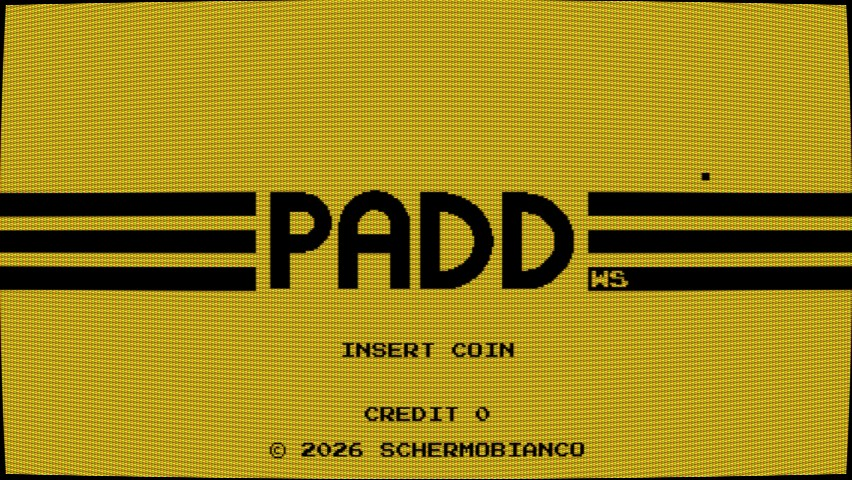
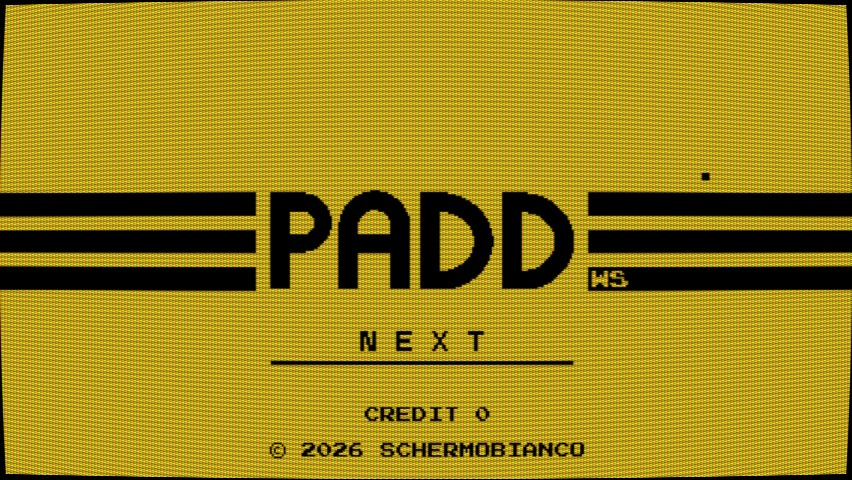
README e guide: titolo dell'attract con NEXT

Changed region(s): [[0.3052, 0.6875, 0.6714, 0.7812]]

diff --git a/docs/it/come-si-gioca.md b/docs/it/come-si-gioca.md
@@ -367,8 +367,8 @@ menu. Solo PAL; finora provata in VICE. Dettagli in [c64/README.md](../../c64/RE
 
 | | |
 |---|---|
-| ![Titolo dell'attract con il filtro CRT](../screenshots/attract-crt.jpg) | ![Conto alla rovescia prima del servizio](../screenshots/countdown.png) |
-| Titolo dell'attract, con il filtro CRT | Conto alla rovescia prima del servizio |
+| ![Titolo dell'attract con NEXT, con il filtro CRT](../screenshots/attract-crt.jpg) | ![Conto alla rovescia prima del servizio](../screenshots/countdown.png) |
+| Titolo dell'attract con NEXT, con il filtro CRT | Conto alla rovescia prima del servizio |
 | ![NEXT: scelta dei bonus](../screenshots/next-pick.png) | ![NEXT: riserve, capsule e SUPER armato](../screenshots/next-game.png) |
 | NEXT: ognuno sceglie 3 bonus su 6 | NEXT: riserve in alto, capsule in volo, racchetta che ruota con il SUPER |
 | ![NEXT: presentazione delle mosse speciali](../screenshots/next-howto.png) | ![NEXT: STRAIGHT SHOT in volo](../screenshots/next-supers.png) |

diff --git a/README.md b/README.md
@@ -28,8 +28,8 @@ gamepad o mouse.
 
 | | |
 |---|---|
-| ![Titolo dell'attract con il filtro CRT](docs/screenshots/attract-crt.jpg) | ![NEXT: scelta della racchetta con i personaggi](docs/screenshots/next-paddles.png) |
-| Titolo dell'attract, con il filtro CRT | NEXT: scelta della racchetta, con i personaggi |
+| ![Titolo dell'attract con NEXT, con il filtro CRT](docs/screenshots/attract-crt.jpg) | ![NEXT: scelta della racchetta con i personaggi](docs/screenshots/next-paddles.png) |
+| Titolo dell'attract con NEXT, con il filtro CRT | NEXT: scelta della racchetta, con i personaggi |
 | ![NEXT: lo schermo VS della scalata](docs/screenshots/challenge-intro.png) | ![NEXT: BLASTER contro GUARDIAN](docs/screenshots/next-kinds.png) |
 | La scalata: lo schermo VS prima di ogni avversario | Le racchette dei personaggi: BLASTER contro GUARDIAN |
 | ![Core MiSTer: titolo](docs/screenshots/mister-title.png) | ![Core MiSTer: scelta della racchetta](docs/screenshots/mister-pick.png) |

diff --git a/docs/en/how-to-play.md b/docs/en/how-to-play.md
@@ -372,8 +372,8 @@ used with `F` / `C` (left) and `.` / `-` (right). Key **5** coin, fire or **RETU
 
 | | |
 |---|---|
-| ![Attract mode title with the CRT filter](../screenshots/attract-crt.jpg) | ![Countdown before the serve](../screenshots/countdown.png) |
-| Attract mode title, with the CRT filter | Countdown before the serve |
+| ![Attract mode title with NEXT, with the CRT filter](../screenshots/attract-crt.jpg) | ![Countdown before the serve](../screenshots/countdown.png) |
+| Attract mode title with NEXT, with the CRT filter | Countdown before the serve |
 | ![NEXT: power-up pick](../screenshots/next-pick.png) | ![NEXT: reserves, capsules and an armed SUPER](../screenshots/next-game.png) |
 | NEXT: each player picks 3 power-ups out of 6 | NEXT: reserves at the top, capsules in flight, paddle spinning with the SUPER |
 | ![NEXT: special moves introduction](../screenshots/next-howto.png) | ![NEXT: STRAIGHT SHOT in flight](../screenshots/next-supers.png) |

diff --git a/README.en.md b/README.en.md
@@ -28,8 +28,8 @@ keyboard, a gamepad or the mouse.
 
 | | |
 |---|---|
-| ![Attract mode title with the CRT filter](docs/screenshots/attract-crt.jpg) | ![NEXT: paddle pick with the characters](docs/screenshots/next-paddles.png) |
-| Attract mode title, with the CRT filter | NEXT: paddle pick, with the characters |
+| ![Attract mode title with NEXT, with the CRT filter](docs/screenshots/attract-crt.jpg) | ![NEXT: paddle pick with the characters](docs/screenshots/next-paddles.png) |
+| Attract mode title with NEXT, with the CRT filter | NEXT: paddle pick, with the characters |
 | ![NEXT: the ladder's VS screen](docs/screenshots/challenge-intro.png) | ![NEXT: BLASTER against GUARDIAN](docs/screenshots/next-kinds.png) |
 | The ladder: the VS screen before each opponent | The characters' paddles: BLASTER against GUARDIAN |
 | ![MiSTer core: title](docs/screenshots/mister-title.png) | ![MiSTer core: paddle pick](docs/screenshots/mister-pick.png) |
